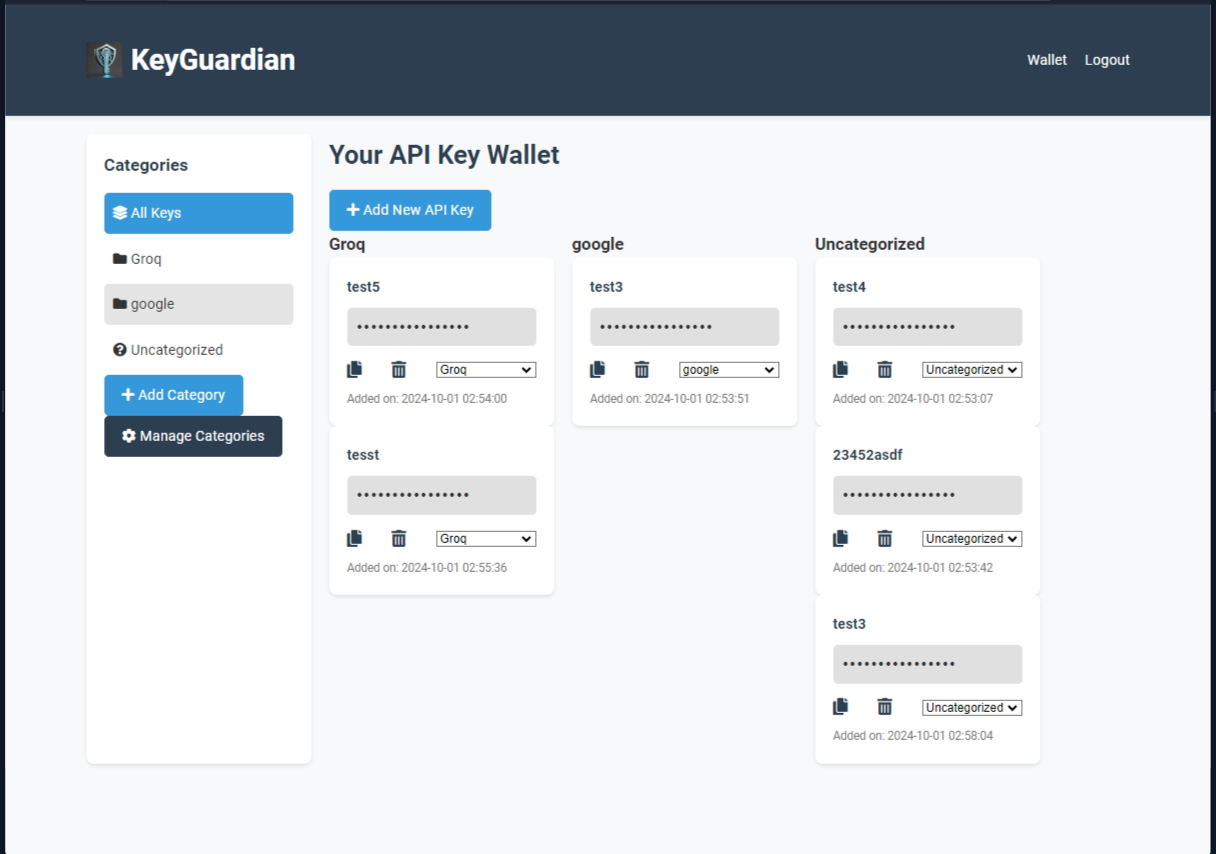
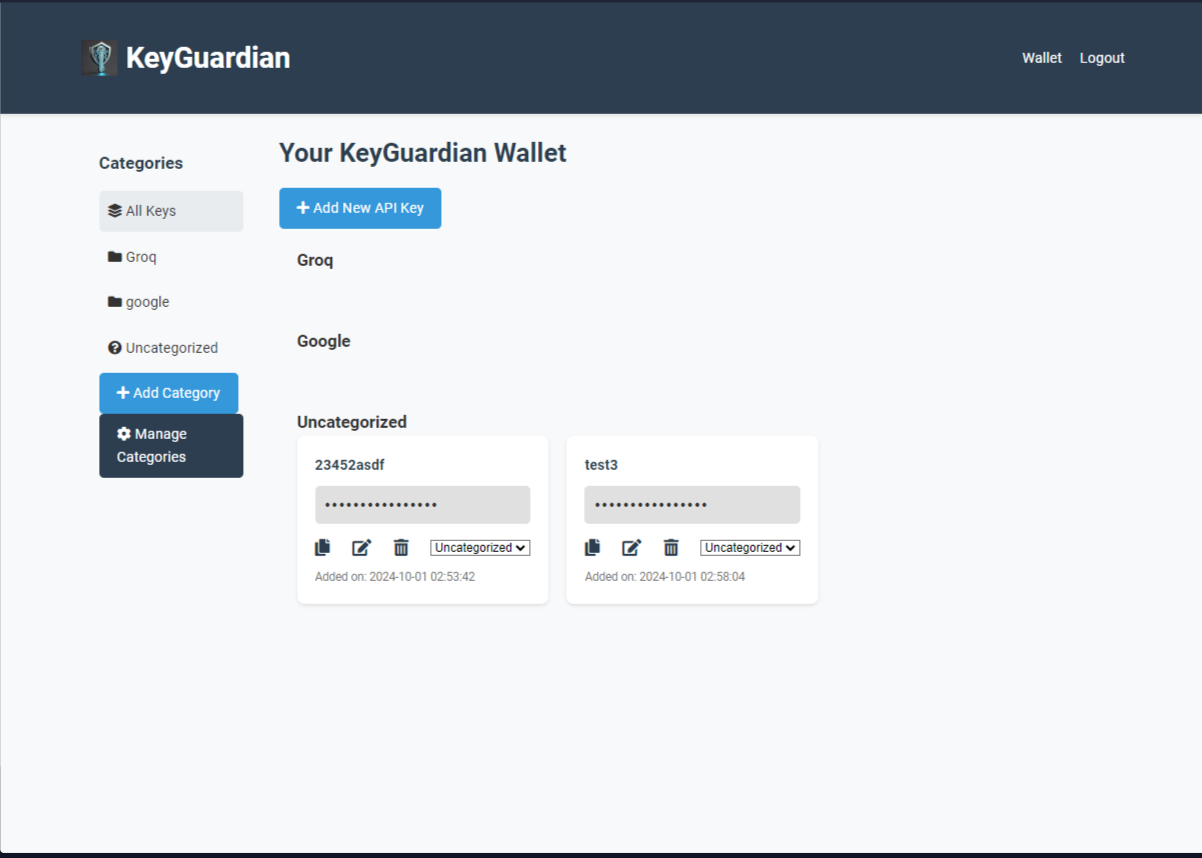
Agent query: 1. Is the Flask server running without any errors? 2. What is the last log message from the server?

diff --git a/templates/wallet.html b/templates/wallet.html
@@ -20,11 +20,11 @@
             <a href="{{ url_for('main.add_key') }}" class="btn add-key-btn"><i class="fas fa-plus"></i> Add New API Key</a>
         </div>
         <div class="api-key-container">
-            {% for category in ['Groq', 'Google', 'Uncategorized'] %}
+            {% for category, keys in grouped_keys.items() %}
                 <div class="category-group" data-category-id="{{ category if category != 'Uncategorized' else 'uncategorized' }}">
                     <h3>{{ category }}</h3>
                     <div class="api-key-row">
-                        {% for key in grouped_keys.get(category, []) %}
+                        {% for key in keys %}
                             <div class="api-key" data-category-id="{{ key.category_id or 'uncategorized' }}">
                                 <h4>{{ key.key_name }}</h4>
                                 <p class="masked-key">••••••••••••••••</p>

diff --git a/routes.py b/routes.py
@@ -97,22 +97,14 @@ def wallet():
         
         grouped_keys = {}
         for category in categories:
-            grouped_keys[category] = [key for key in api_keys if key.category_id == category.id]
+            grouped_keys[category.name] = [key for key in api_keys if key.category_id == category.id]
         
         grouped_keys['Uncategorized'] = [key for key in api_keys if key.category_id is None]
         
         return render_template('wallet.html', grouped_keys=grouped_keys, categories=categories)
-    except SQLAlchemyError as e:
-        current_app.logger.error(f"Database error in wallet route: {str(e)}")
-        current_app.logger.error(f"Error type: {type(e).__name__}")
-        current_app.logger.error(f"Error details: {e.args}")
-        flash('An error occurred while retrieving your wallet. Please try again later.', 'danger')
-        return redirect(url_for('main.index'))
     except Exception as e:
-        current_app.logger.error(f"Unexpected error in wallet route: {str(e)}")
-        current_app.logger.error(f"Error type: {type(e).__name__}")
-        current_app.logger.error(f"Error details: {e.args}")
-        flash('An unexpected error occurred. Please try again later.', 'danger')
+        current_app.logger.error(f"Error in wallet route: {str(e)}")
+        flash('An error occurred while retrieving your wallet. Please try again later.', 'danger')
         return redirect(url_for('main.index'))
 
 @main.route('/add_key', methods=['GET', 'POST'])
